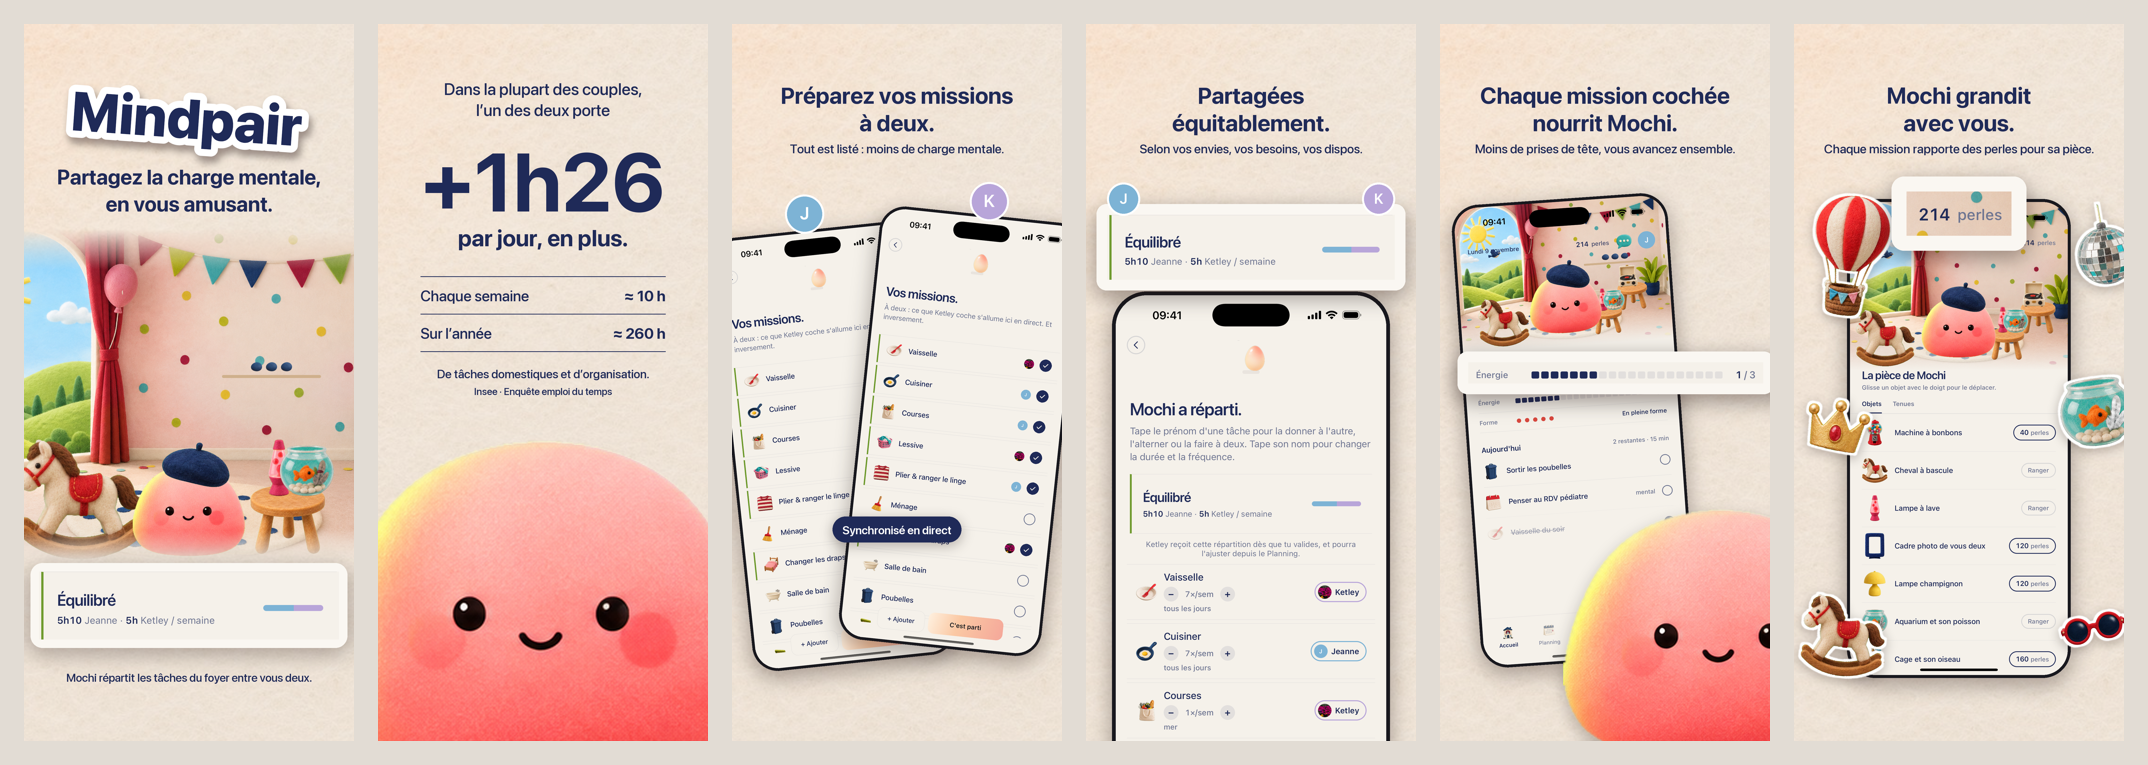
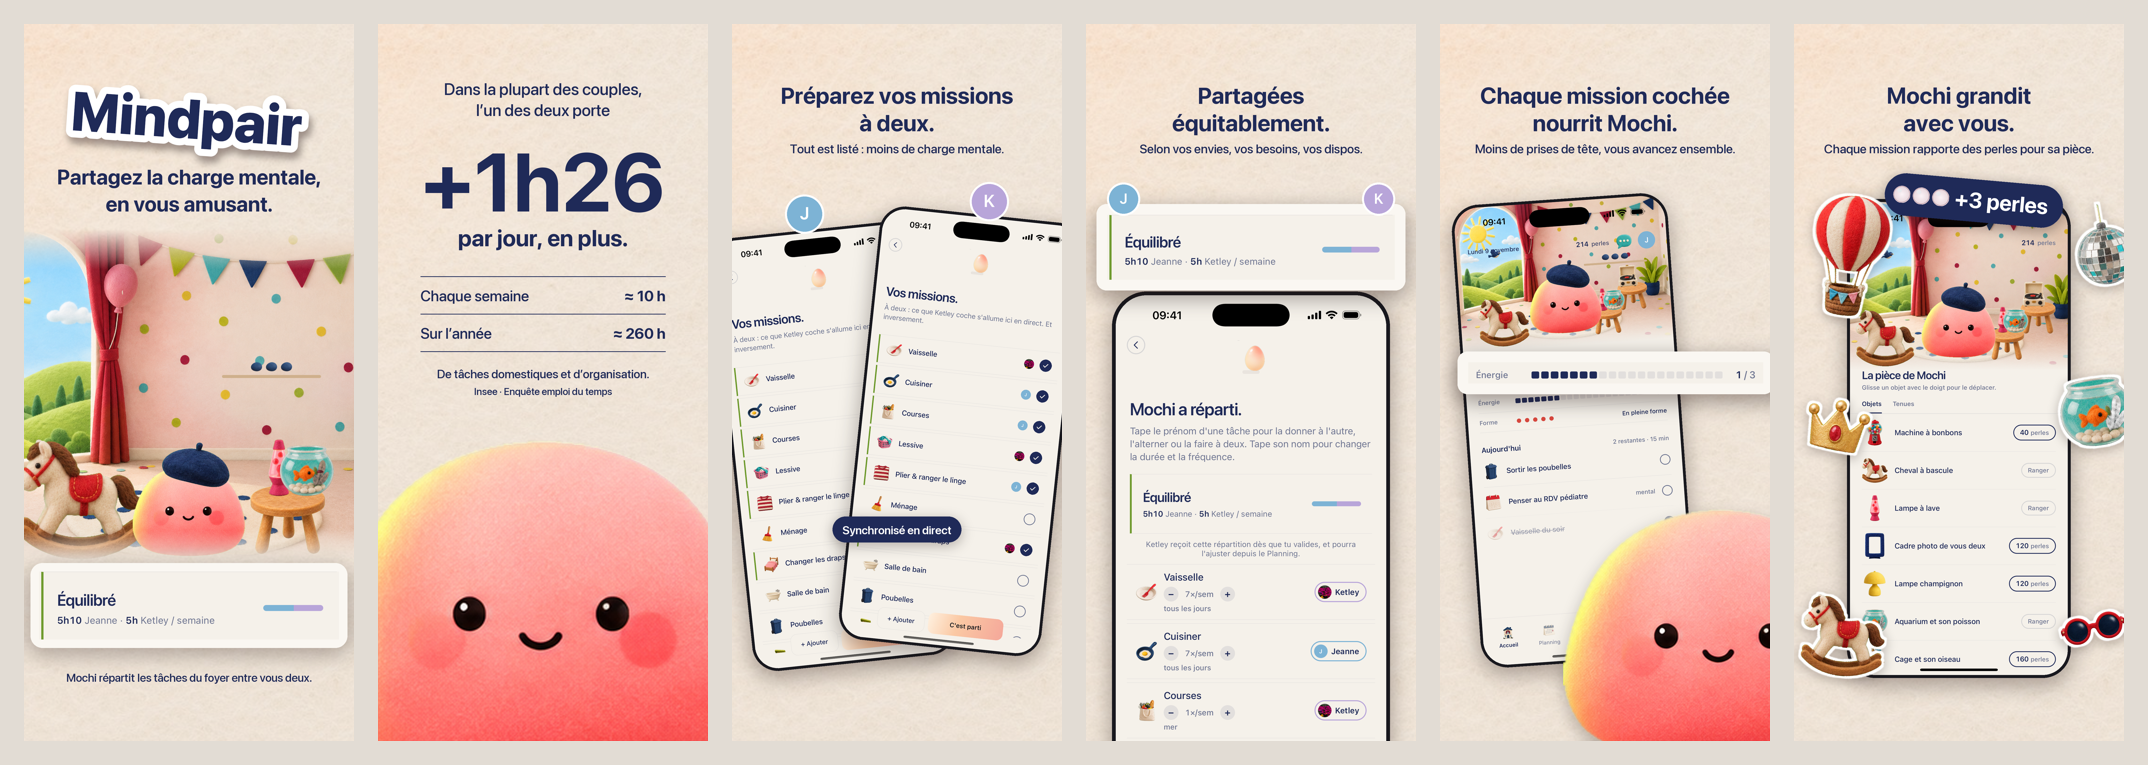
Captures App Store : badge « +3 perles » à la place de l'extrait d'écran

Changed region(s): [[0.8734, 0.2105, 0.9669, 0.3608]]

diff --git a/scripts/store-v7.py b/scripts/store-v7.py
@@ -69,7 +69,20 @@ ph,sc,bz,src=phone('chambre.png',int(W*0.66)); px=(W-ph.width)//2; py=top+150
 im=drop(im,ph,px,py)
 for (k,w,a,x,y) in [('montgolfiere',300,-8,10,top+90),('disco',230,10,W-250,top+120),('couronne',250,-12,0,top+900),('aquarium',290,8,W-300,top+820),('cheval',330,-6,-10,H-620),('lunettesrouges',260,12,W-290,H-560)]:
     s=sticker(M+f'assets/boutique/{k}.png',w,a); im=drop(im,s,x,y,a=70,blur=20,dy=12)
-c=card(src,(1010,190,1270,300),420,r=50); im=drop(im,c,(W-c.width)//2,top+60,a=110)
+def pearl(r):
+    # perle nacrée : dégradé crème → rose pâle, reflet blanc
+    p=Image.new('RGBA',(2*r,2*r),(0,0,0,0)); dp=ImageDraw.Draw(p)
+    for i in range(r,0,-1):
+        t=i/r; col=(int(232+20*(1-t)),int(214+30*(1-t)),int(220+28*(1-t)),255); dp.ellipse((r-i,r-i,r+i,r+i),fill=col)
+    dp.ellipse((int(r*0.45),int(r*0.35),int(r*0.95),int(r*0.8)),fill=(255,255,255,230))
+    ring=Image.new('RGBA',p.size,(0,0,0,0)); ImageDraw.Draw(ring).ellipse((1,1,2*r-2,2*r-2),outline=(200,170,180,255),width=3); p.alpha_composite(ring); return p
+f=font(88,'Bold'); d0=ImageDraw.Draw(Image.new('RGB',(1,1))); label='+3 perles'; tw=int(d0.textlength(label,font=f))
+bw=tw+340; bh=170; badge=Image.new('RGBA',(bw,bh),(0,0,0,0)); db=ImageDraw.Draw(badge)
+db.rounded_rectangle((0,0,bw-1,bh-1),85,fill=INK+(255,))
+for i,x in enumerate([34,112,190]): pr=pearl(34); badge.alpha_composite(pr,(x,bh//2-34))
+db.text((280,bh//2-56),label,font=f,fill=(255,255,255))
+badge=badge.rotate(-5,expand=True,resample=Image.BICUBIC)
+im=drop(im,badge,(W-badge.width)//2+60,top+40,a=100,blur=26,dy=14)
 im.convert('RGB').save(O+'v7-06.png')
 
 fs=['v6-01','v6-02','v7-03','v7-04','v7-05','v7-06']
